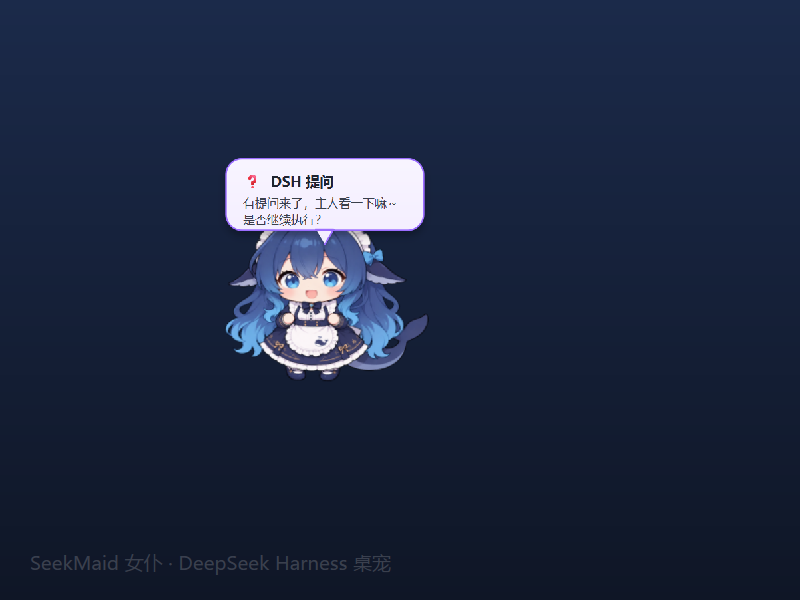
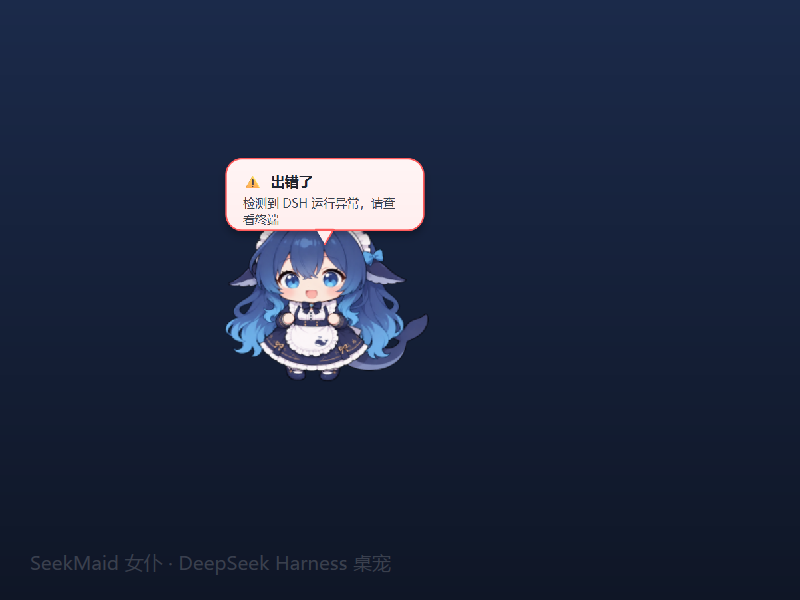
Fix error preview screenshot; use direct error bubble in capture script

Changed region(s): [[0.2812, 0.24, 0.5312, 0.39]]

diff --git a/tools/capture_previews.py b/tools/capture_previews.py
@@ -94,7 +94,13 @@ def main() -> None:
     composite(pet, "docs/screenshots/question.png")
 
     # 出错
-    pet._on_event_received("preview", {"type": "agent/error", "data": {}})
+    pet.show_message(
+        "检测到 DSH 运行异常，请查看终端",
+        6000,
+        kind="error",
+        title="出错了",
+        sound=False,
+    )
     app.processEvents()
     time.sleep(0.6)
     composite(pet, "docs/screenshots/error.png")
